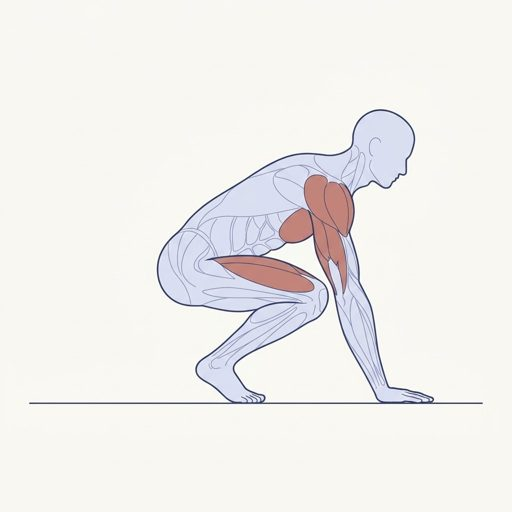
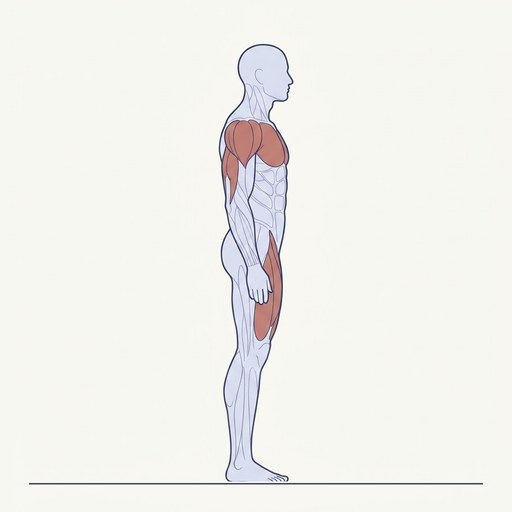
Burpee em 5 quadros alinhados + auditoria de quadros no check (#38)
* Abdução com elástico: sequência de 2 quadros no estilo do mapa do corpo

Claude-Session: https://claude.ai/code/session_01Sv1vTALhjnxdZq5wEp6vjZ

* Burpee em 5 quadros alinhados e na mesma escala; auditoria de quadros (chão, altura, cabeça) no tools/check.js

Claude-Session: https://claude.ai/code/session_01Sv1vTALhjnxdZq5wEp6vjZ

---------

Changed region(s): [[0.0625, 0.0625, 0.9375, 0.9688]]

diff --git a/index.html b/index.html
@@ -1,5 +1,5 @@
 <!doctype html>
-<html lang="pt-BR"><head><meta charset="utf-8"><meta name="viewport" content="width=device-width,initial-scale=1,viewport-fit=cover"><meta name="app-ver" content="v60-20261107e"><script>(function(){try{var V="v60-20261107e";function ocupado(){var a=document.activeElement,l=document.getElementById("layer");return (a&&/^(INPUT|TEXTAREA|SELECT)$/.test(a.tagName))||(l&&l.children.length>0)}
+<html lang="pt-BR"><head><meta charset="utf-8"><meta name="viewport" content="width=device-width,initial-scale=1,viewport-fit=cover"><meta name="app-ver" content="v60-20261107f"><script>(function(){try{var V="v60-20261107f";function ocupado(){var a=document.activeElement,l=document.getElementById("layer");return (a&&/^(INPUT|TEXTAREA|SELECT)$/.test(a.tagName))||(l&&l.children.length>0)}
 function checa(){try{if(ocupado())return;fetch(location.pathname+"?_="+Date.now(),{cache:"no-store"}).then(function(r){return r.text()}).then(function(t){var m=t.match(/name="app-ver" content="([^"]+)"/);if(m&&m[1]!==V&&!ocupado()&&sessionStorage.getItem("frv")!==m[1]){sessionStorage.setItem("frv",m[1]);location.replace(location.pathname+"?v="+m[1]+location.hash)}}).catch(function(){})}catch(e){}}
 checa();document.addEventListener("visibilitychange",function(){if(!document.hidden)checa()});setInterval(checa,300000)}catch(e){}})()</script><meta name="theme-color" content="#27335F"><meta name="apple-mobile-web-app-capable" content="yes"><meta name="mobile-web-app-capable" content="yes"><meta name="apple-mobile-web-app-title" content="Frangômetro"><link rel="icon" href="icon.png"><link rel="apple-touch-icon" href="apple-touch-icon.png"><link rel="manifest" href="manifest.json"><style>:root{color-scheme:light;padding-top:env(safe-area-inset-top,0px);padding-bottom:env(safe-area-inset-bottom,0px)}body{margin:0;font:14px system-ui,sans-serif}img{max-width:100%}[hidden]{display:none!important}</style></head><body>
 <title>Frangômetro</title>
@@ -141,7 +141,7 @@ label.f{display:flex;flex-direction:column;gap:5px;font-size:13px;font-weight:60
 .sheet.anim{animation:up .22s ease-out}
 .sheet.full{height:100%;max-height:100%;border-radius:0}
 .exfig{position:relative;width:100%;max-width:360px;aspect-ratio:1/1;margin:6px auto;background:#fff;overflow:hidden}.exfig img{position:absolute;inset:0;width:100%;height:100%;object-fit:contain}.exfig img.b{animation:exAlt 1.6s steps(1,end) infinite}@keyframes exAlt{0%{opacity:0}50%{opacity:1}100%{opacity:0}}@media (prefers-reduced-motion:reduce){.exfig img.b{animation:none;opacity:0}}
-.exseq img{opacity:0;animation-iteration-count:infinite;animation-timing-function:steps(1,end)}@keyframes exSq4{0%{opacity:1}25%,100%{opacity:0}}@keyframes exSq2{0%{opacity:1}50%,100%{opacity:0}}@media(prefers-reduced-motion:reduce){.exseq img{animation:none}.exseq img:first-child{opacity:1}}
+.exseq img{opacity:0;animation-iteration-count:infinite;animation-timing-function:steps(1,end)}@keyframes exSq4{0%{opacity:1}25%,100%{opacity:0}}@keyframes exSq5{0%{opacity:1}20%,100%{opacity:0}}@keyframes exSq2{0%{opacity:1}50%,100%{opacity:0}}@media(prefers-reduced-motion:reduce){.exseq img{animation:none}.exseq img:first-child{opacity:1}}
 @keyframes up{from{transform:translateY(30px);opacity:.6}to{transform:none;opacity:1}}
 @media (prefers-reduced-motion:reduce){.sheet.anim{animation:none}}
 .sheet-h{display:flex;align-items:center;gap:8px;padding:12px max(16px,env(safe-area-inset-right,0px)) 10px max(16px,env(safe-area-inset-left,0px));border-bottom:1px solid var(--line)}
@@ -2874,7 +2874,7 @@ const EX_IMG = {"eliptico":"Elliptical_Trainer","escada":"Stairmaster","remo-erg
 // Nomes que o Hevy usa (inglês e português) para as imagens, quando o exercício veio do CSV/Strava com id próprio
 const EX_IMGN = {"inclinebenchpressbarbell":"Barbell_Incline_Bench_Press_-_Medium_Grip","kneelingpushup":"Pushups","benchpressbarbell":"Barbell_Bench_Press_-_Medium_Grip","lateralraisedumbbell":"Side_Lateral_Raise","tricepspushdown":"Triceps_Pushdown","ezbarbicepscurl":"EZ-Bar_Curl","chestflydumbbell":"Dumbbell_Flyes","latpulldowncable":"Wide-Grip_Lat_Pulldown","dumbbellrow":"One-Arm_Dumbbell_Row","shoulderpressdumbbell":"Dumbbell_Shoulder_Press","seatedrowmachine":"Leverage_Iso_Row","lyinglegraise":"Flat_Bench_Lying_Leg_Raise","hammercurldumbbell":"Hammer_Curls","bentoverrowbarbell":"Bent_Over_Barbell_Row","romaniandeadliftbarbell":"Romanian_Deadlift","crunch":"Crunches","squatdumbbell":"Dumbbell_Squat","lunge":"Dumbbell_Lunges","standingcalfraise":"Standing_Calf_Raises","supinoretobarra":"Barbell_Bench_Press_-_Medium_Grip","squatbarbell":"Barbell_Full_Squat","crucifixoretohalter":"Dumbbell_Flyes","singlearmtricepextensiondumbbell":"Dumbbell_One-Arm_Triceps_Extension","desenvolvimentodeombroshalter":"Dumbbell_Shoulder_Press","supinoinclinadobarra":"Barbell_Incline_Bench_Press_-_Medium_Grip","tricepsnapolia":"Triceps_Pushdown","remadacurvadabarra":"Bent_Over_Barbell_Row","puxadaaltacabo":"Wide-Grip_Lat_Pulldown","elevacaolateralhalter":"Side_Lateral_Raise","roscadiretabarraw":"EZ-Bar_Curl","extensaodetricepsunilateralhalter":"Dumbbell_One-Arm_Triceps_Extension","remadasentadamaquina":"Leverage_Iso_Row","overheadpressdumbbell":"Dumbbell_Shoulder_Press","singlearmcablerow":"Seated_One-arm_Cable_Pulley_Rows","crossbodyhammercurl":"Cross_Body_Hammer_Curl","roscamartelohalter":"Hammer_Curls","tricepsropepushdown":"Triceps_Pushdown_-_Rope_Attachment","agachamentobarra":"Barbell_Full_Squat","levantamentoterraromenobarra":"Romanian_Deadlift","abdominal":"Crunches","remadaserrotehalter":"One-Arm_Dumbbell_Row","flexao":"Pushups","skullcrusherdumbbell":"Lying_Dumbbell_Tricep_Extension","singlearmcablecrossover":"Single-Arm_Cable_Crossover","inclinebenchpressdumbbell":"Incline_Dumbbell_Press","flexaocomapoiodosjoelhos":"Pushups","elevacaodepernasdeitado":"Flat_Bench_Lying_Leg_Raise","agachamentohalter":"Dumbbell_Squat","afundo":"Dumbbell_Lunges","panturrilhaempe":"Standing_Calf_Raises","extensaodetricepshalter":"Standing_Dumbbell_Triceps_Extension","remadanabarrat":"T-Bar_Row_with_Handle","puxadaaltapegadafechadacabo":"Close-Grip_Front_Lat_Pulldown","encolhimentohalter":"Dumbbell_Shrug","roscadiretahalter":"Dumbbell_Bicep_Curl","supinoinclinadohalter":"Incline_Dumbbell_Press","jumpingjack":"Star_Jump","standingcalfraisedumbbell":"Standing_Dumbbell_Calf_Raise","lungedumbbell":"Dumbbell_Lunges","tricepsnapoliaunilateralcabo":"Cable_One_Arm_Tricep_Extension","crucifixoinclinadohalter":"Incline_Dumbbell_Flyes","pushup":"Pushups","invertedrow":"Inverted_Row","pushupclosegrip":"Push-Ups_-_Close_Triceps_Position","superman":"Superman","jumpsquat":"Freehand_Jump_Squat","mountainclimber":"Mountain_Climbers","afundohalter":"Dumbbell_Lunges","panturrilhaempehalter":"Standing_Dumbbell_Calf_Raise","tricepsextensiondumbbell":"Standing_Dumbbell_Triceps_Extension","tbarrow":"T-Bar_Row_with_Handle","remadasentadacompegadaemvcabo":"Seated_Cable_Rows","puxadaaltamaquina":"Wide-Grip_Lat_Pulldown","tricepsnapoliacomcorda":"Triceps_Pushdown_-_Rope_Attachment","seatedcablerowvgripcable":"Seated_Cable_Rows","bicepcurlbarbell":"Barbell_Curl","legpressmachine":"Leg_Press","meadowsrowsbarbell":"One-Arm_Long_Bar_Row","crucifixomaquina":"Butterfly","pulloverhalter":"Bent-Arm_Dumbbell_Pullover","seatedcablerow":"Seated_Cable_Rows","benchpressdumbbell":"Dumbbell_Bench_Press","pullup":"Pullups","chinup":"Chin-Up","overheadpressbarbell":"Standing_Military_Press","deadliftbarbell":"Barbell_Deadlift","plank":"Plank","facepull":"Face_Pull","hipthrustbarbell":"Barbell_Hip_Thrust","legextensionmachine":"Leg_Extensions","seatedlegcurlmachine":"Seated_Leg_Curl","lyinglegcurlmachine":"Lying_Leg_Curls","skullcrusherbarbell":"EZ-Bar_Skullcrusher","bicepcurldumbbell":"Dumbbell_Alternate_Bicep_Curl","seatedcalfraisemachine":"Seated_Calf_Raise","standingcalfraisemachine":"Standing_Calf_Raises","bentoverrowdumbbell":"One-Arm_Dumbbell_Row","tricepsdip":"Dips_-_Triceps_Version","dip":"Dips_-_Triceps_Version","frontraisedumbbell":"Front_Dumbbell_Raise","cablecrossover":"Cable_Crossover","gobletsquat":"Goblet_Squat","bulgariansplitsquat":"Split_Squat_with_Dumbbells","hammercurl":"Hammer_Curls"};
 // Sequências de 3 quadros (ilustrações geradas para o app no estilo do mapa do corpo): agachado, prancha, agachado, salto
-const EX_SEQ = {"burpee": {p: "Burpee_Gemini", ordem: [0, 1, 0, 2], nome: "agachado, prancha, agachado e salto"}, "abducao-elastico": {p: "Abducao_Gemini", ordem: [0, 1], nome: "pernas juntas e perna aberta"}};
+const EX_SEQ = {"burpee": {p: "Burpee_Gemini", ordem: [0, 1, 2, 1, 3], nome: "de pé, agachado, prancha, agachado e salto"}, "abducao-elastico": {p: "Abducao_Gemini", ordem: [0, 1], nome: "pernas juntas e perna aberta"}};
 function exAnim(ex) {
   const q = EX_SEQ[ex.id];
   if (q) return `<div class="card flat exanim"><div class="eyebrow">Execução</div><div class="exfig exseq" role="img" aria-label="Demonstração: ${esc(ex.nome)} (${q.nome})">${q.ordem.map((n, k) => `<img src="ex/${q.p}-${n}.jpg" style="animation-name:exSq${q.ordem.length};animation-duration:${q.ordem.length * .7}s;animation-delay:${-(q.ordem.length - k) * .7}s" alt="Quadro ${k + 1}" loading="lazy">`).join("")}</div><div class="xs muted">Sequência: ${q.nome}. Ilustração própria do app no estilo do mapa do corpo.</div></div>`;

diff --git a/tools/check.js b/tools/check.js
@@ -71,4 +71,9 @@ nt = F.frNotaCalc({ ...base, kcal: 1000, p: 75, agua: 1400, refeicoes: 1, treino
 ok('metade do dia é Pintinho (< 40)', nt.score < 40 && nt.nv.n === 'Pintinho');
 
 console.log((total - falhas) + '/' + total + ' testes das contas passaram');
+// ---- Auditoria dos quadros de animação (chão, altura e cabeça iguais entre os quadros) ----
+const cp = require('child_process');
+const fr = cp.spawnSync('python3', [__dirname + '/frames.py', 'check'], { encoding: 'utf8' });
+if (fr.error || /No module named/.test(fr.stderr || '')) console.warn('AVISO: auditoria de quadros não rodou (precisa de python3 + Pillow + scipy)');
+else { process.stdout.write(fr.stdout); if (fr.status !== 0) { console.error('FALHOU auditoria dos quadros de animação'); falhas++; } }
 process.exit(falhas || bad ? 1 : 0);

diff --git a/tools/frames.py b/tools/frames.py
@@ -1,0 +1,96 @@
+#!/usr/bin/env python3
+"""Auditoria e normalização dos quadros de animação (ex/*_Gemini-N.jpg).
+Mede por código, por quadro: linha do chão, altura da figura e raio da cabeça
+(maior círculo inscrito numa janela ao redor da semente da cabeça), compara entre
+os quadros de cada sequência e FALHA se não baterem.
+Uso:  python3 tools/frames.py check            # confere (saída 0 = ok)
+      python3 tools/frames.py build <pasta-origem> # normaliza originais 1024px -> ex/ 512px
+Requer Pillow + scipy. Manifesto: tools/frames.json
+"""
+import json, sys, os
+import numpy as np
+from PIL import Image, ImageDraw
+from scipy import ndimage as ndi
+
+AQUI = os.path.dirname(os.path.abspath(__file__))
+M = json.load(open(os.path.join(AQUI, 'frames.json')))
+TOL_CHAO = 2      # px (na escala do arquivo)
+TOL_CABECA = 0.08 # 8% no raio da cabeça
+
+def chao(im):
+    rows = (im < 120).sum(1)
+    ys = [y for y in range(len(rows)) if rows[y] > im.shape[1] * 0.58]
+    return max(ys) if ys else None
+
+def raio_cabeca(im, seed, g):
+    x, y = seed
+    k = im.shape[1] / 1024.0
+    dark = im < 170
+    dark[int(g - 4 * k):, :] = False
+    out = ndi.binary_closing(dark, iterations=9)
+    lab, _ = ndi.label(~out)
+    fig = ~(lab == lab[0, 0])
+    dt = ndi.distance_transform_edt(fig)
+    r = int(80 * k)
+    return float(dt[max(0, y - r):y + r, max(0, x - r):x + r].max())
+
+def medir(path, seed):
+    img = Image.open(path).convert('L')
+    if img.size[0] != 1024:  # mede sempre na escala 1024
+        f = 1024 / img.size[0]; img = img.resize((1024, 1024), Image.LANCZOS); seed = [int(seed[0] * f), int(seed[1] * f)]
+    im = np.array(img).astype(int)
+    g = chao(im)
+    d = im < 120
+    d[g - 4:g + 5, :] = False
+    ys = np.where(d.any(1))[0]
+    return dict(chao=g, altura=int(g - ys.min()), cabeca=raio_cabeca(im, seed, g))
+
+def check():
+    falhas = 0
+    for nome, s in M['sequencias'].items():
+        res = []
+        for q in s['quadros']:
+            r = medir(os.path.join(AQUI, '..', 'ex', q['arq']), q['semente'])
+            res.append((q['arq'], r))
+        base = np.median([r['cabeca'] for _, r in res])
+        g0 = res[0][1]['chao']
+        for arq, r in res:
+            ok_g = abs(r['chao'] - g0) <= TOL_CHAO
+            ok_c = abs(r['cabeca'] - base) / base <= TOL_CABECA
+            st = 'ok' if ok_g and ok_c else 'FALHOU'
+            if st != 'ok': falhas += 1
+            print(f"[{nome}] {arq}: chão {r['chao']} altura {r['altura']} cabeça r={r['cabeca']:.1f} (ref {base:.1f}) {st}")
+    print('quadros fora do padrão:', falhas)
+    return falhas
+
+def build(src):
+    ALVO_R = M['alvo_raio_cabeca']; G = M['chao_y']; N = 1024  # alvo e chão na escala 1024
+    for nome, s in M['sequencias'].items():
+        if s.get('so_check'): continue
+        for q in s['quadros']:
+            im = Image.open(os.path.join(src, q['origem'])).convert('RGB')
+            a = np.array(im)
+            gl = chao(np.array(im.convert('L')).astype(int))
+            bg = np.median(a[5:40, 5:40].reshape(-1, 3), axis=0).astype(np.uint8)
+            cor_linha = tuple(int(v) for v in a[gl, N // 2])
+            a[gl - 4:gl + 5, :] = bg   # apaga a linha original (redesenhada depois)
+            r = raio_cabeca(np.array(Image.fromarray(a).convert('L')).astype(int), q['semente_origem'], gl)
+            sc = ALVO_R / r
+            ys, xs = np.where((np.array(Image.fromarray(a).convert('L')) < 120)[:gl - 4])
+            cx = (xs.min() + xs.max()) / 2
+            w = int(round(N * sc))
+            big = Image.fromarray(a).resize((w, w), Image.LANCZOS)
+            canvas = Image.new('RGB', (N, N), tuple(int(v) for v in bg))
+            # ponto (cx, gl) vai para (N/2, G)
+            canvas.paste(big, (int(round(N / 2 - cx * sc)), int(round(G - gl * sc))))
+            ImageDraw.Draw(canvas).line([(58, G), (965, G)], fill=cor_linha, width=3)
+            sx, sy = q['semente_origem']
+            q['semente'] = [int(round(((N / 2 + (sx - cx) * sc)) / 2)), int(round((G + (sy - gl) * sc) / 2))]
+            canvas = canvas.resize((512, 512), Image.LANCZOS)
+            canvas.save(os.path.join(AQUI, '..', 'ex', q['arq']), quality=88)
+            print(q['arq'], 'escala', round(sc, 3))
+    json.dump(M, open(os.path.join(AQUI, 'frames.json'), 'w'), indent=1, ensure_ascii=False)
+
+if __name__ == '__main__':
+    if len(sys.argv) > 1 and sys.argv[1] == 'build': build(sys.argv[2])
+    else: sys.exit(1 if check() else 0)
